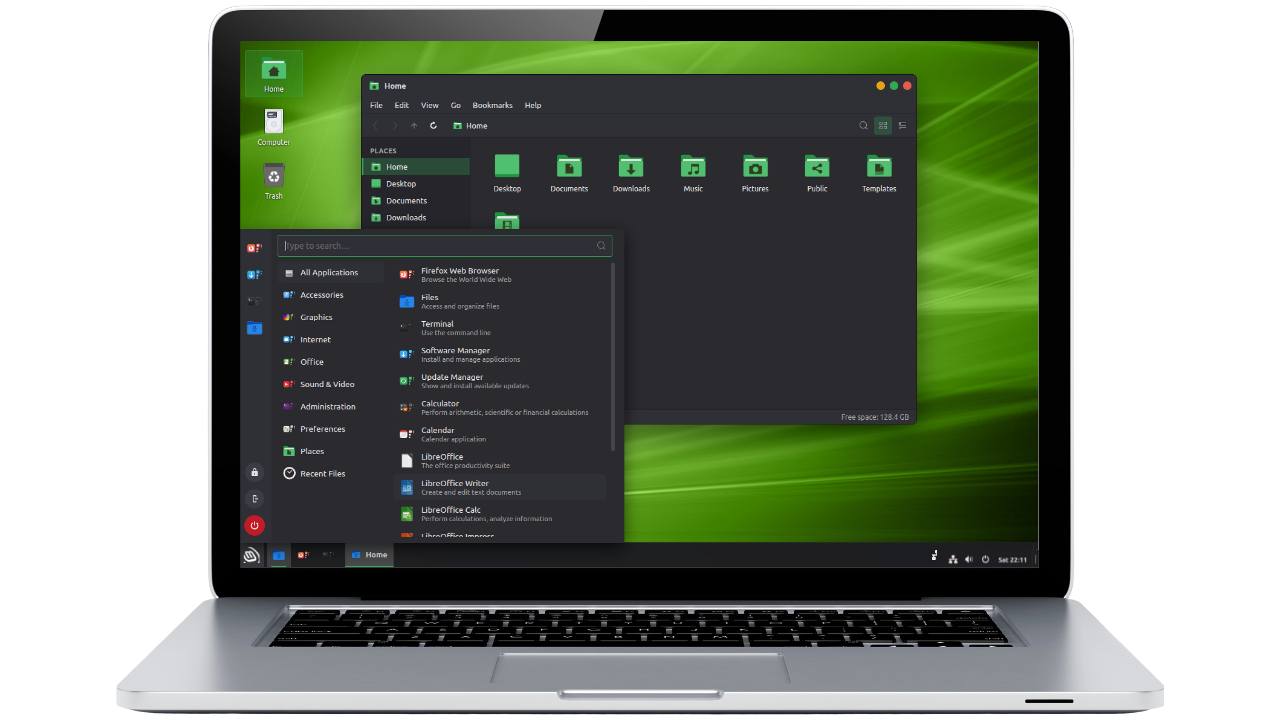
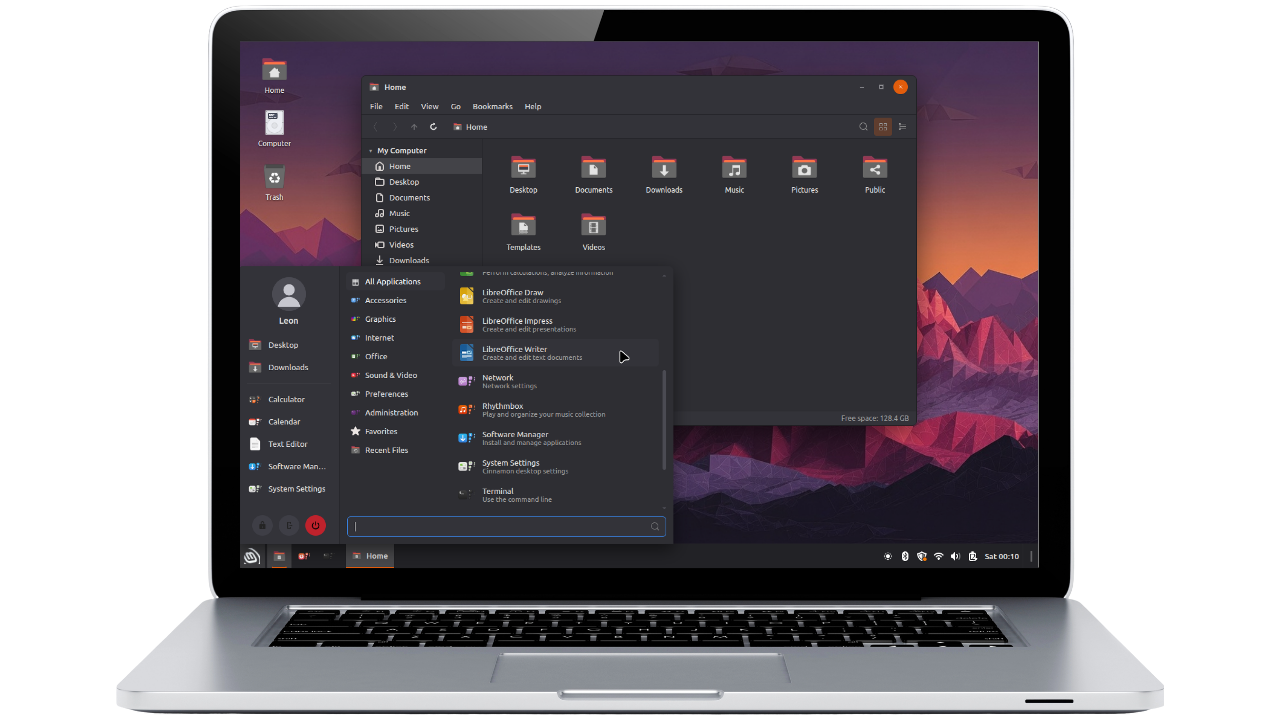
Update README and preview screenshots for the current Cinnamon mockup.

Changed region(s): [[0.1875, 0.0306, 0.8125, 0.7944]]

diff --git a/README.md b/README.md
@@ -1,4 +1,4 @@
-![Cinnamon Desktop Preview](docs/Screenshot%20From%202026-07-26%2014-15-05.png)
+![Cinnamon Desktop Preview](docs/Screenshot%20From%202026-08-01%2000-07-10.png)
 
 <div align="center">
 <a href="https://sudostation.github.io/Cinnamon-desktop-preview/">View interactive preview</a>
